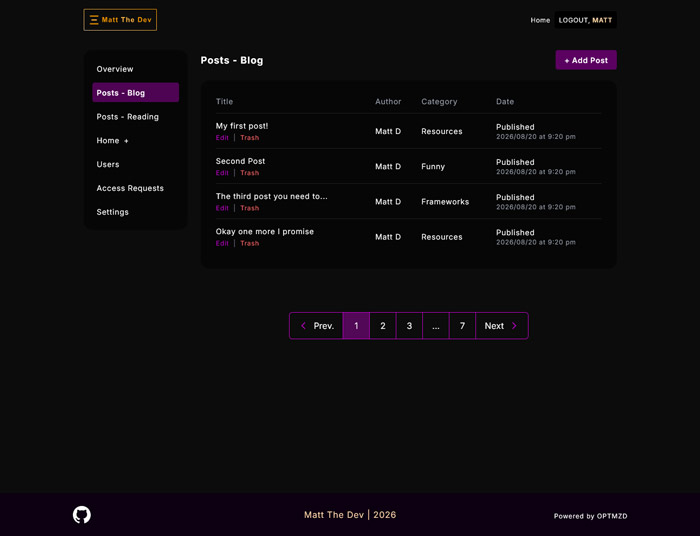
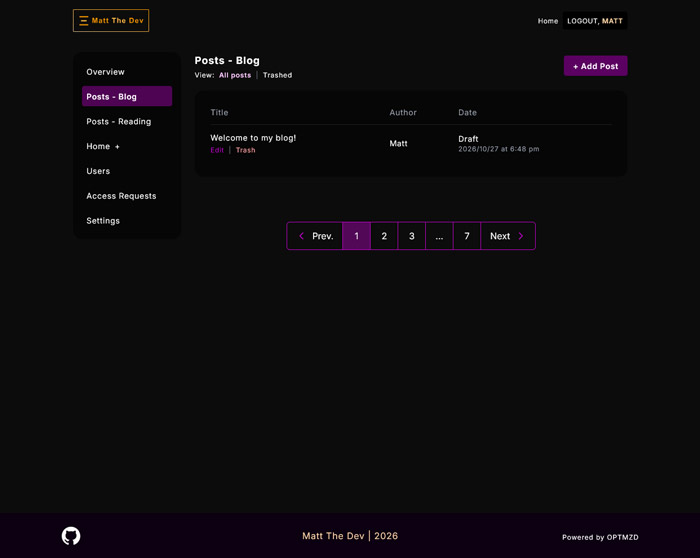
Update repository-level context files

diff --git a/CLAUDE.md b/CLAUDE.md
@@ -4,7 +4,7 @@ This file provides guidance to Claude Code (claude.ai/code) when working with co
 
 ## Project
 
-A personal blog ("Matt The Dev") with a public frontend and an admin CMS, built to learn the full web stack. It uses Vite + Tailwind CSS v4 and was designed in Figma. The site now lives in `C:\xampp\htdocs\dynamic-blog` and Apache serves it at http://localhost/dynamic-blog/. **Every page is now a `.php` file built from the shared `includes/`.** The **MySQL backend has started**. The login system is done: database connection, `users` table, login, logout, auth guard, session timeouts, CSRF tokens and login attempt limiting (see "Login and sessions" below). Everything else (posts, users, requests, settings) is still a mockup with hardcoded content. The planned features still to build are tables for posts/categories/comments, the admin form handlers, and small JSON endpoints for features that don't reload the page (e.g. draft autosave). A full REST API isn't planned, because the pages are server-rendered. The README tracks progress.
+A personal blog ("Matt The Dev") with a public frontend and an admin CMS, built to learn the full web stack. It uses Vite + Tailwind CSS v4 and was designed in Figma. The site now lives in `C:\xampp\htdocs\dynamic-blog` and Apache serves it at http://localhost/dynamic-blog/. **Every page is now a `.php` file built from the shared `includes/`.** The **MySQL backend has started**. The login system is done: database connection, `users` table, login, logout, auth guard, session timeouts, CSRF tokens and login attempt limiting (see "Login and sessions" below). Blog posts have started: the `blog_posts` table and the admin list, trash, restore and permanent delete work (see "Blog posts" below). Everything else (new/edit post saving, reading posts, users, requests, settings, the public post pages) is still a mockup with hardcoded content. The planned features still to build are saving and editing posts, tables for reading posts/categories/comments, the admin form handlers, and small JSON endpoints for features that don't reload the page (e.g. draft autosave). A full REST API isn't planned, because the pages are server-rendered. The README tracks progress.
 
 **The user is learning PHP and types the backend code by hand for practice.** For PHP work, explain the plan and review what they write rather than writing it for them, unless they ask. Markup, CSS and docs changes are fine to make directly when asked.
 
@@ -44,12 +44,12 @@ The old copy in `C:\Users\jerse\Documents\github\dynamic-blog` was deleted on 20
   - The `@theme` block defines the custom tokens used throughout the markup: the colors `xlight-purple`, `light-purple`, `dark-purple`, `darkest-purple`, and `mango`; the `font-inter` font; the `bg-check` check-mark image used by checked checkboxes and radios (`checked:bg-check`); and the extra breakpoints `xmid`, `mid`, and `mid1000`.
   - Images used from CSS must be theme tokens pointing at `../public/images/…`, like `--background-image-check`, so Vite rewrites the URL during a build (it copies large files into `build/` and inlines small ones). An arbitrary class like `bg-[url('/images/…')]` breaks under Apache.
   - It also defines the `.button` component, the `grid-cols-autofit` utility, and the plain-CSS Category dropdown.
-- **Category dropdown pattern:** `<details class="dropdown">`, with `<summary class="dropdown-button">` as the toggle and `.dropdown-menu` holding checkboxes named `items[]`. The checkbox values are still placeholders (`item1`…`item10`).
+- **Category dropdown pattern:** `<details class="dropdown">`, with `<summary class="dropdown-button">` as the toggle and `.dropdown-menu` holding checkboxes named `items[]`. The checkbox values are still placeholders (`item1`…`item10`). Only `posts_reading_new.php` uses it now. It was removed from the blog form until categories exist, and the CSS stays for later.
 - **Static assets** live in `public/` (`public/images/`, favicons). Every page links them as `<?= BASE_URL ?>public/…`.
 
 ## Login and sessions
 
-- **Database:** MySQL database `dynamicblog` with two tables so far:
+- **Database:** MySQL database `dynamicblog` with three tables so far (`blog_posts` is described under "Blog posts"). **`database_schema.sql`** in the root is a phpMyAdmin structure-only export, with no data, no password hashes and no `CREATE DATABASE`. Re-export it whenever a table changes, so it stays current.
   - `users`: `id`, `username` (unique), `pwd` (`password_hash()` output, `VARCHAR(255)`), `email` (unique), `created_at` (defaults to `CURRENT_TIMESTAMP`). There's no signup; the admin user was inserted by hand with a hash made by `password_hash()`.
   - `login_attempts`: `id`, `ip` (`VARCHAR(45)`), `username`, `attempted_at` (defaults to `CURRENT_TIMESTAMP`), with an index on `(ip, username, attempted_at)`. One row per failed login.
 - **`includes/dbh.inc.php`** connects with PDO (`utf8mb4`, exceptions on, `FETCH_ASSOC` by default) and creates `$pdo`. It holds the credentials, so it's **gitignored**. `dbh.inc.example.php` is the committed copy with blank values.
@@ -81,15 +81,31 @@ The old copy in `C:\Users\jerse\Documents\github\dynamic-blog` was deleted on 20
   - `csrf_is_valid()` returns true or false. `login.inc.php` uses it so it can redirect back with a message instead.
 - Always follow `header('Location: …')` with `die()` or `exit`.
 
+## Blog posts
+
+- **`blog_posts` table:** `id`, `title` (`VARCHAR(255)`), `body` (`TEXT`), `featured_image` (file name only), `featured_image_alt`, `featured_image_caption` (all three `VARCHAR(255) NULL`), `status` (`ENUM('draft','published')`, default `'draft'`), `trashed_at` (`DATETIME NULL`), `created_at`, `updated_at` (`ON UPDATE CURRENT_TIMESTAMP`), `user_id` (foreign key to `users.id`, `ON DELETE SET NULL`). There are no categories yet; they come later as their own tables.
+- **Trash is a soft delete.** `trashed_at` is `NULL` for a live post and holds a date once trashed. Restore sets it back to `NULL`, so the post keeps its draft/published status. A permanent `DELETE` only matches posts that are already trashed (`AND trashed_at IS NOT NULL`), so a forged id can't delete a live post. Every query that lists posts must filter on `trashed_at`, and the public pages also on `status = 'published'`.
+- **`includes/posts_model.inc.php`** holds the queries:
+  - `get_blog_posts($pdo, bool $trashed = false)` uses a `LEFT JOIN` to `users` for the author name, which is `NULL` if the user was deleted.
+  - `trash_blog_post()`, `restore_blog_post()` and `delete_blog_post()` are prepared statements with `PDO::PARAM_INT` that return `rowCount()`.
+- **`admin/posts_blog.php`** lists live posts. With `?view=trash` it lists the trash instead. The All posts / Trashed links mark the current view with `aria-current="page"`, which also styles it through `aria-[current=page]:` classes. The live rows have Edit and Trash, and the trash rows have Restore and Delete. Each action is a POST form with `csrf_field()` and a hidden `id`.
+- **Handlers:** `admin/posts_blog_trash.php`, `posts_blog_restore.php` and `posts_blog_delete.php` all share one shape:
+  1. The auth guard, POST only, then `csrf_verify()`.
+  2. `filter_input(…, FILTER_VALIDATE_INT)` with a guard clause.
+  3. The model call.
+  4. They set `$_SESSION["posts_message"]` from the row count and redirect back. Trash returns to the list, and Restore and Delete return to `?view=trash`.
+- **Flash message:** `posts_blog.php` prints `$_SESSION["posts_message"]` in a `role="status"` paragraph and then unsets it, so it shows once.
+- **To do:** a JS confirm on Delete, which the user is writing in `main.ts`. Once featured images exist, Delete must also remove the image file.
+
 ## Admin pages and the PHP backend
 
-- Apart from the login system, the admin pages are mockups of the CMS: dashboard, blog and reading post lists, new-post forms, featured posts, users, access requests, request access and settings.
-- Some links and form actions already point at `admin/` handlers that don't exist yet, so they 404: `posts_blog_delete.php`, `posts_reading_delete.php`, `users_delete.php`, `requests_delete.php`, `posts_blog_edit.php?id=N`, `posts_reading_edit.php?id=N`.
+- Apart from the login system and the blog post list, trash, restore and delete, the admin pages are mockups of the CMS: dashboard, reading post list, new-post forms, featured posts, users, access requests, request access and settings.
+- Some links and form actions already point at `admin/` handlers that don't exist yet, so they 404: `posts_reading_delete.php`, `users_delete.php`, `requests_delete.php`, `posts_blog_edit.php?id=N`, `posts_reading_edit.php?id=N`.
 - The other forms (new posts, users, featured posts, settings) submit back to their own `.php` page, and `request_access.php` uses `action=""`. None of them handle `$_POST` yet, and none have `csrf_field()` yet.
 - **New-post forms** (`posts_blog_new.php`, `posts_reading_new.php`):
   - The submit button must stay inside the `<form>`.
   - Every field needs a unique `name`, since that's the `$_POST` key.
-  - The blog form uses `enctype="multipart/form-data"` for its featured image upload.
+  - The blog form uses `enctype="multipart/form-data"` for its featured image upload. It has no Category dropdown. Its fields are `title`, `featured_image`, `featured_image_alt`, `featured_image_caption` and `body`. Alt text isn't `required` in HTML, because a post can have no image; the handler should require it only when an image is uploaded, and check the 255-character limits in PHP.
 
 ## Do not change
 
@@ -97,7 +113,7 @@ The old copy in `C:\Users\jerse\Documents\github\dynamic-blog` was deleted on 20
 
 ## Backend checklist
 
-Already done: build output in `build/`, the Vite `base`, `BASE_URL`, the shared includes, every page converted to `.php`, sidebar links, consistent image paths, the automatic footer year, and the login system (database connection, `users` table, login, logout, auth guard, "Keep me logged in", session timeouts, CSRF on the login and logout forms, login attempt limiting).
+Already done: build output in `build/`, the Vite `base`, `BASE_URL`, the shared includes, every page converted to `.php`, sidebar links, consistent image paths, the automatic footer year, and the login system (database connection, `users` table, login, logout, auth guard, "Keep me logged in", session timeouts, CSRF on the login and logout forms, login attempt limiting), and the blog post list, trash view, trash, restore and permanent delete with flash messages.
 
 When the user works on the backend, or asks what's left, remind them of this checklist:
 
@@ -115,7 +131,7 @@ When the user works on the backend, or asks what's left, remind them of this che
 When the user says they're ready to put the site on a remote host (e.g. Bluehost), remind them of this checklist:
 
 - **Paths:** `BASE_URL` in `includes/config.php` and `base: '/dynamic-blog/build/'` in `vite.config.ts` both assume the site is at `/dynamic-blog/`. At the domain root they become `/` and `/build/`. Change both, then run `npm run build`, because the base is baked into `build/main.css`. Offer to make them switch automatically between localhost and production.
-- **What to upload:** the root `.php` pages, `admin/`, `includes/`, `public/` and `build/`. Leave out `node_modules/`, `src/`, `package.json`, `package-lock.json`, `vite.config.ts`, `tsconfig.json`, `.git/`, `.claude/`, `CLAUDE.md`, `README.md`, `about.html` and `writing.html`. With cPanel Git deployment, `build/` still needs a separate upload because it's gitignored.
+- **What to upload:** the root `.php` pages, `admin/`, `includes/`, `public/` and `build/`. Leave out `node_modules/`, `src/`, `package.json`, `package-lock.json`, `vite.config.ts`, `tsconfig.json`, `.git/`, `.claude/`, `CLAUDE.md`, `README.md`, `database_schema.sql`, `about.html` and `writing.html`. With cPanel Git deployment, `build/` still needs a separate upload because it's gitignored.
 - **Server setup:** pick a PHP version in cPanel that matches or is newer than XAMPP's. Create the MySQL database and user, and import the tables with phpMyAdmin. The database name will likely get a cPanel account prefix. `includes/dbh.inc.php` is gitignored, so create it on the server from `dbh.inc.example.php` with the production credentials. Turn on SSL and redirect to `https`, which the `secure` session cookie requires. Turn `display_errors` off and log errors instead.
 - **Linux differences:** file names are case-sensitive. Block direct access to `includes/` (with `.htaccess`, or move it above `public_html`). Make the featured-image upload folder writable.
-- **Admin:** sessions, login, the auth guard, CSRF and login attempt limiting exist now. Before deploying `admin/`, also have https, blocked access to `includes/`, and the password handling above. Import both tables, `users` and `login_attempts`. Until then, deploy only the public pages.
+- **Admin:** sessions, login, the auth guard, CSRF and login attempt limiting exist now. Before deploying `admin/`, also have https, blocked access to `includes/`, and the password handling above. Import all the tables (`users`, `login_attempts` and `blog_posts`) from `database_schema.sql`. Until then, deploy only the public pages.

diff --git a/README.md b/README.md
@@ -1,10 +1,12 @@
-## Dynamic Blogging Application
+# Dynamic Blogging Application
 
 A custom blogging platform with a public frontend and an admin CMS for managing posts. I'm building it to learn how the whole web stack fits together.
 
 Built with help from Claude Code, which I used for explanations, planning and code review. I wrote the PHP myself.
 
-**Stack:** Vite, Tailwind CSS, Figma. Backend: PHP and MySQL (in progress).
+**Stack:** Vite, Tailwind CSS v4, TypeScript, Figma. Backend: PHP (PDO) and MySQL (in progress).
+
+**Security:** prepared statements for every query, CSRF tokens on every form, passwords hashed with `password_hash()`, hardened session cookies with inactivity timeouts, and login attempt limiting.
 
 ### Status
 - [x] Visual design in Figma
@@ -13,11 +15,25 @@ Built with help from Claude Code, which I used for explanations, planning and co
 - [x] Admin / CMS frontend
 - [x] Apache htdocs migration / server-side preparation
 - [x] Login system and sessions (login, logout, protected admin pages, "Keep me logged in", inactivity timeouts, CSRF tokens, login attempt limiting)
-- [ ] Blog posts: database table, admin list, trash, new/edit form, image upload, public pages (next)
+- [ ] Blog posts (in progress)
+  - [x] Database table
+  - [x] Admin list with trash, restore and permanent delete
+  - [ ] New/edit form saving
+  - [ ] Featured image upload
+  - [ ] Public post pages
 
 ### Planned
-- Relational database for users, posts, categories, and comments
+- Reading posts, featured posts and user management
+- Access requests and site settings
+- Categories and comments tables
 - JSON endpoints for features that don't reload the page (e.g. draft autosave)
+
+### Running locally
+1. Install [XAMPP](https://www.apachefriends.org/) and put the project in `htdocs/dynamic-blog`, so it's served at http://localhost/dynamic-blog/.
+2. Run `npm install`, then `npm run build`. The `build/` folder isn't committed, so the pages have no CSS or JS until you build. While working, `npm run watch` rebuilds on every save.
+3. In phpMyAdmin, create a database named `dynamicblog`, select it, and import `database_schema.sql` from the Import tab. That creates the `users`, `login_attempts` and `blog_posts` tables, with no data.
+4. Copy `includes/dbh.inc.example.php` to `includes/dbh.inc.php` and fill in your database credentials. That file is gitignored.
+5. Add an admin user by hand, with a password hash made by `password_hash()`. There's no signup page.
 
 &nbsp;
 
